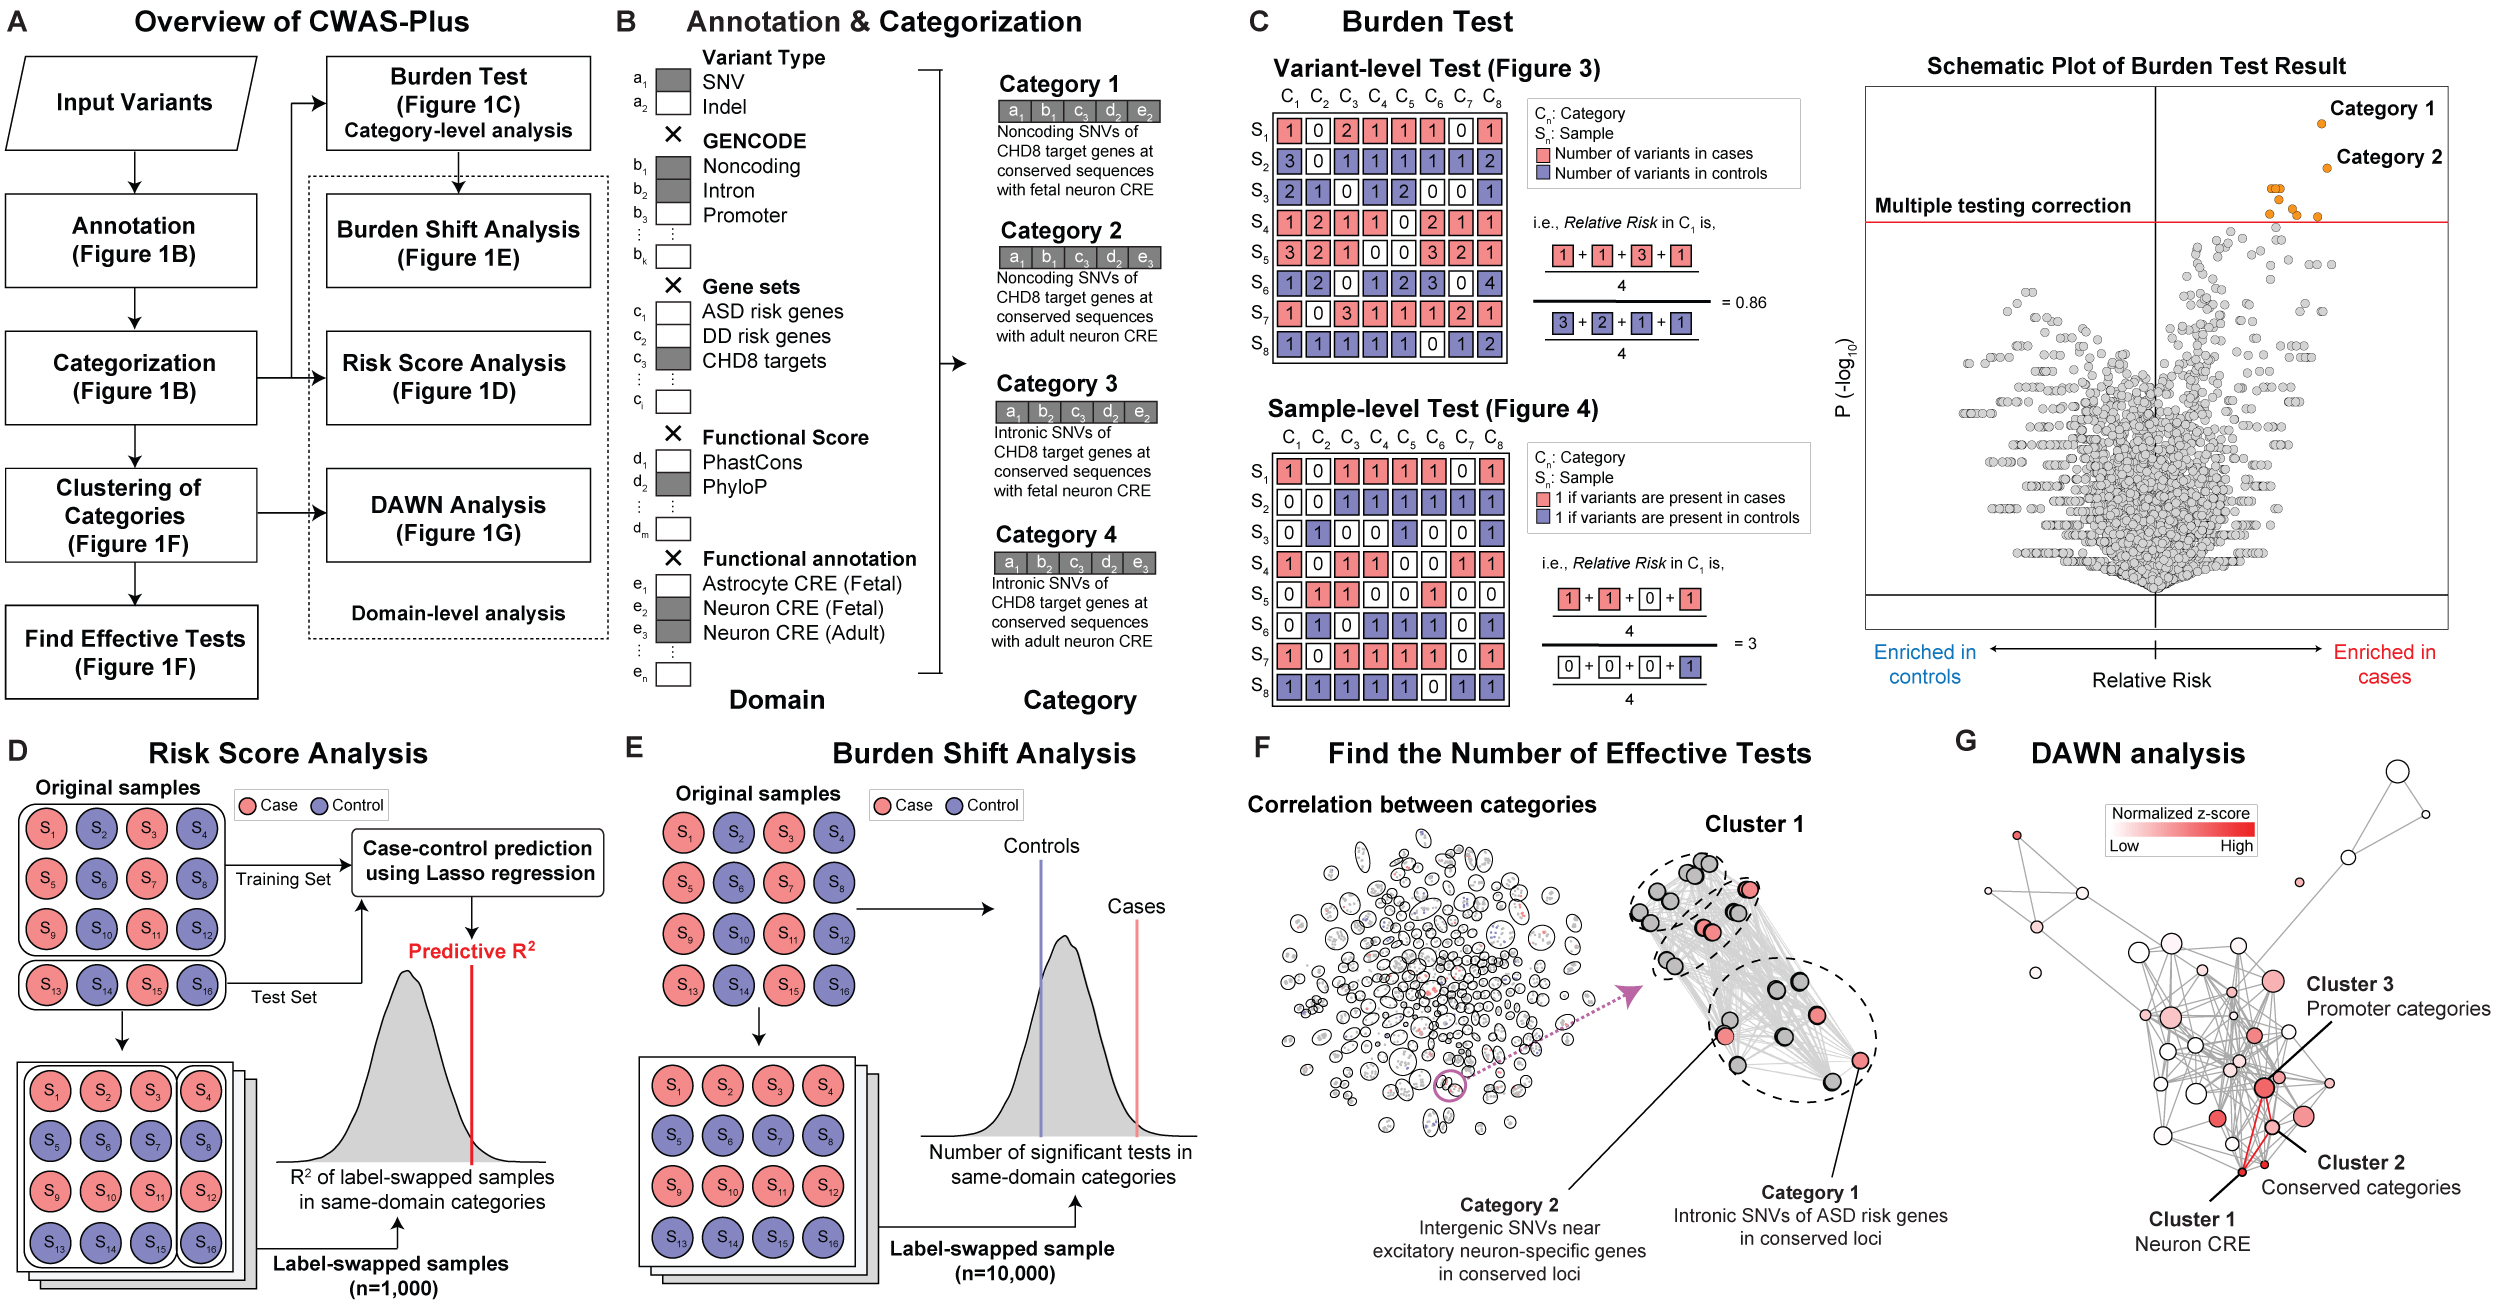
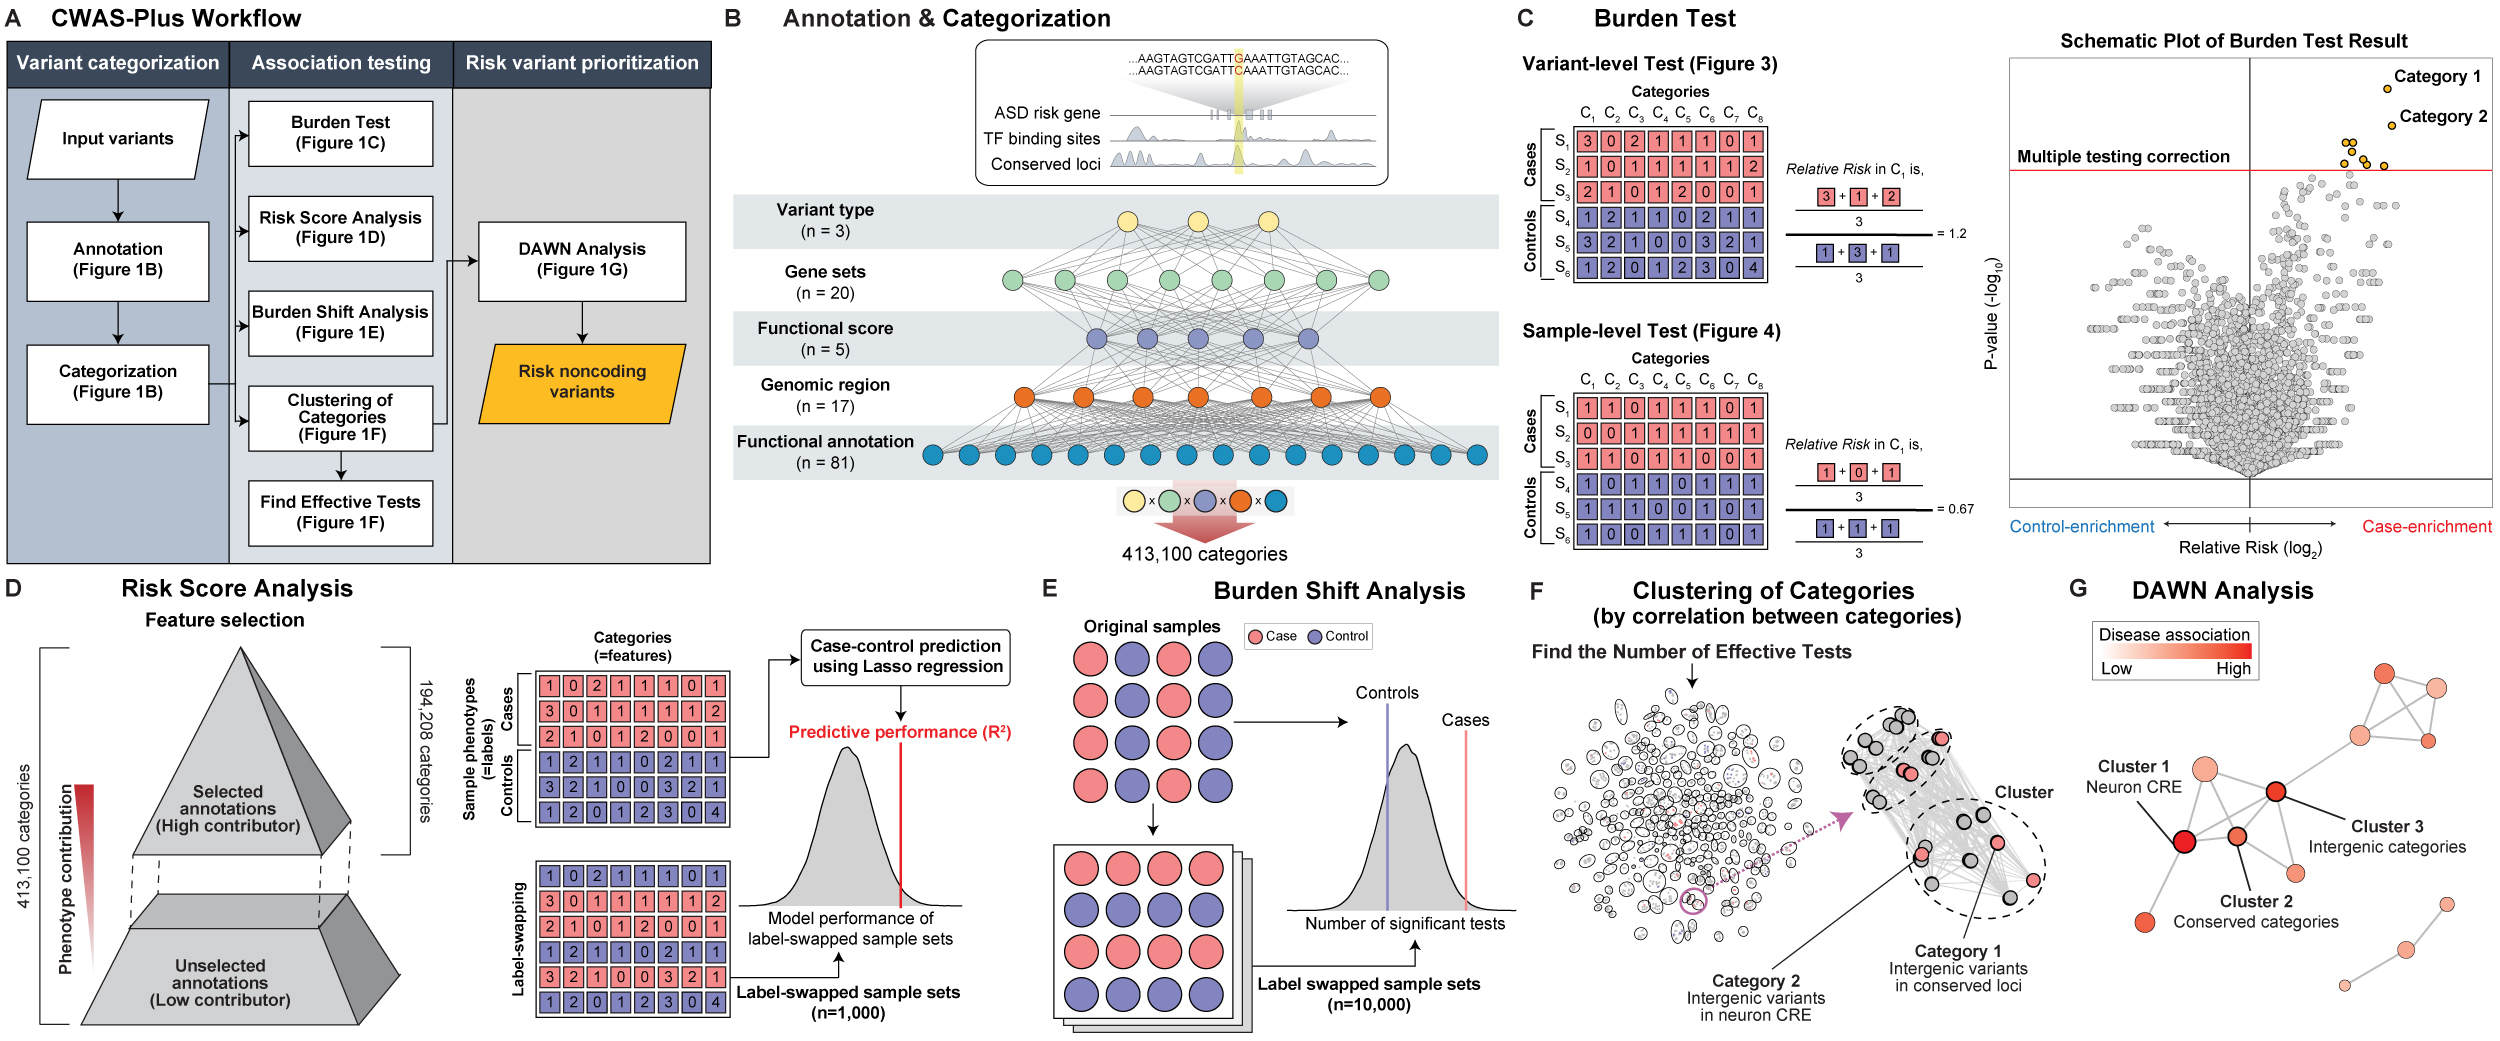
Update documents

diff --git a/docs/faq/faq.rst b/docs/faq/faq.rst
@@ -4,5 +4,176 @@
 FAQ
 **********************
 
-Q. 
-###########################
+
+Easy installation of VEP
+######################################################
+
+For easy installation of VEP, we provide the following commands for installation through conda.
+
+For LOFTEE plugin, the installation location for cpanm, perl, and VEP should be the same. For example, for conda, all tools should be located under the same conda environment for VEP to locate other tools.
+
+To install VEP version 110, users can use the following command. If users want to install other versions, users can modify the number `110` to their desired specific version.
+
+(The provided commands are referenced from `VEP document <https://asia.ensembl.org/info/docs/tools/vep/script/vep_download.html>`.)
+
+.. code-block:: solidity
+  
+  conda install -c bioconda perl-bioperl
+  conda install perl-App-cpanminus
+  conda install -c bioconda ensembl-vep=110
+  cpanm --force Bio::Perl
+
+  wget https://github.com/ucscGenomeBrowser/kent/archive/v335_base.tar.gz
+  tar xzf v335_base.tar.gz
+
+  export KENT_SRC=$PWD/kent-335_base/src
+  export MACHTYPE=$(uname -m)
+  export CFLAGS="-fPIC"
+  export MYSQLINC=`mysql_config --include | sed -e 's/^-I//g'`
+  export MYSQLLIBS=`mysql_config --libs`
+
+  cd $KENT_SRC/lib
+  echo 'CFLAGS="-fPIC"' > ../inc/localEnvironment.mk
+
+  make clean && make
+  cd ../jkOwnLib
+  make clean && make
+
+  ln -s $KENT_SRC/lib/x86_64/* $KENT_SRC/lib/
+
+  cpanm Bio::DB::BigFile
+  cpanm DBD::SQLite
+
+When the following message appears when using VEP,
+
+.. code-block:: solidity
+  
+  Compress::Raw::Zlib version 2.201 required--this is only version 2.105
+
+Try running the following command.
+
+.. code-block:: solidity
+  
+  conda update -c conda-forge perl-compress-raw-zlib
+
+Users can check whether VEP is installed through `vep --help`. If VEP is installed, the message will appear as following.
+
+.. code-block:: solidity
+
+  #----------------------------------#
+  # ENSEMBL VARIANT EFFECT PREDICTOR #
+  #----------------------------------#
+
+  Versions:
+    ensembl              : 110.584a8f3
+    ensembl-funcgen      : 110.24e6da6
+    ensembl-io           : 110.b1a0d57
+    ensembl-variation    : 110.d34d25e
+    ensembl-vep          : 110.1
+
+  Help: dev@ensembl.org , helpdesk@ensembl.org
+  Twitter: @ensembl
+
+  http://www.ensembl.org/info/docs/tools/vep/script/index.html
+
+  Usage:
+  ./vep [--cache|--offline|--database] [arguments]
+
+  Basic options
+  =============
+
+  --help                 Display this message and quit
+
+  -i | --input_file      Input file
+  -o | --output_file     Output file
+  --force_overwrite      Force overwriting of output file
+  --species [species]    Species to use [default: "human"]
+
+  --everything           Shortcut switch to turn on commonly used options. See web
+                        documentation for details [default: off]
+  --fork [num_forks]     Use forking to improve script runtime
+
+  For full option documentation see:
+  http://www.ensembl.org/info/docs/tools/vep/script/vep_options.html
+
+
+How to configure ANNOTATION_KEY_CONFIG yaml file
+######################################################
+
+The **ANNOTATION_KEY_CONFIG** yaml file contains *functional_score* and *functional_annotation*. Each file is in bed format and should be written with their short name that represents them. This name will be further used in other analyses.
+
+When setting the short name, avoid using underscores ('_'). Underscores are used to distinguish different domains within a single category. For example, a category 'A_B_C_D_E' will be recognized as five domains, but if the name of the category is 'A_B_C_D_E_F', it will cause error while association testing, as the category is divided into six domains.
+
+An example for **ANNOTATION_KEY_CONFIG** yaml file looks like below.
+
+.. code-block:: solidity
+
+  functional_score:
+    bed1.bed.gz: annot1
+    bed2.bed.gz: annot2
+  functional_annotation:
+    bed3.bed.gz: annot_3 # Do not use underscores like this. Users can use 'annot3' instead.
+    bed4.bed.gz: annot4
+
+The files should be located inside **ANNOTATION_DATA_DIR**. For preparation step, these files should be indexed using tabix.
+
+As an example, users can sort and index their bed file like below.
+
+.. code-block:: solidity
+  
+  cat bed1.bed | sort -k1,1V -k2,2n -k3,3n -t$'\t' | bgzip -c > sorted.bed1.bed.gz
+  tabix -p bed sorted.bed1.bed.gz
+
+
+
+
+How to add or remove a gene set
+######################################################
+
+Modify the txt file used for gene set (**GENE_MATRIX**).
+
+The gene set contains gene ID, gene name and columns that represents each set of genes. To add or remove gene sets, users can add or remove columns.
+
++--------------------+-----------+---------------+---------+--------------+
+| gene_id            | gene_name | ProteinCoding | lincRNA | ASDTADAFDR03 |
++====================+===========+===============+=========+==============+
+| ENSG00000000003.15 | TSPAN6    |1              | 0       | 0            |
++--------------------+-----------+---------------+---------+--------------+
+| ENSG00000000005.6  | TNMD      |1              | 0       | 0            |
++--------------------+-----------+---------------+---------+--------------+
+| ENSG00000000419.14 | DPM1      |1              | 0       | 0            |
++--------------------+-----------+---------------+---------+--------------+
+
+Then, configure again.
+
+.. code-block:: solidity
+
+  cwas configuration -f
+
+If users already have the annotated VCF (`*annotated.vcf.gz`) and gene set is the only thing they changed, then they can start from categorization step. Gene sets are first used in the categorization step.
+
+
+How to add or remove a functional annotation or score
+######################################################
+
+Modify the **ANNOTATION_KEY_CONFIG** yaml file. Add a new line or remove previous lines from the file.
+
+Then, configure again.
+
+.. code-block:: solidity
+
+  cwas configuration -f
+
+
+The annotation of CWAS-Plus contains two steps: (1) VEP annotation, (2) BED custom annotation. If the output of each step already exists, then the step is skipped.
+
+If users already have the VEP annotated file (`*.vep.vcf.gz`), they can start from annotation step.
+
+CWAS-Plus skips VEP annotation if the VEP annotated file already exists.
+
+.. code-block:: solidity
+
+  cwas annotation -v INPUT.vcf -o_dir OUTPUT_DIR -p 8
+
+However, before annotation, please **remove the annotated VCF** (`*annotated.vcf.gz`). If the annotated VCF exists, CWAS-Plus will also skip BED custom annotation step.
+

diff --git a/docs/index.rst b/docs/index.rst
@@ -13,7 +13,7 @@ Here are the reference papers:
 
 * `An analytical framework for whole genome sequence association studies and its implications for autism spectrum disorder <https://www.ncbi.nlm.nih.gov/pmc/articles/PMC5961723/>`_ (Werling et al., 2018)
 * `Genome-wide de novo risk score implicates promoter variation in autism spectrum disorder <https://www.ncbi.nlm.nih.gov/pmc/articles/PMC6432922/>`_ (An et al., 2018)
-* CWAS-Plus: Estimating genome-wide evaluation of noncoding variation from whole genome sequencing data. (Kim et al., in preperation)
+* `CWAS-Plus: Estimating category-wide association of rare noncoding variation from whole-genome sequencing data with cell-type-specific functional data <https://www.medrxiv.org/content/10.1101/2024.04.15.24305828v1>` (Kim et al., in press)
 
 
 CWAS-Plus workflow
@@ -24,7 +24,7 @@ CWAS-Plus workflow
    :width: 90%
    :align: center
 
-   **A.** Workflow\: Variants extracted from whole-genome sequencing data of samples (sample variant) serve as inputs. The three steps depicted in the black box correspond to the final outputs obtained from CWAS-Plus. **B-G.** Graphic descriptions of each process in CWAS-Plus\: Red (case) and blue (control) represent the phenotype. **F.** Representative network pointed by the purple arrow provides an enlarged view of a subset of the network. The color indicates the direction of the burden in each category (red, case burden; blue, control burden). **G.** The color of the clusters reflects the scale of the normalized z-score, which represents the degree of disease association of the cluster. Darker red indicates a higher association. Circle size represents the number of categories within the cluster.
+   **A.** Workflow\: Variants extracted from whole-genome sequencing data of samples (sample variant) serve as inputs. **B-G.** Graphic descriptions of each process in CWAS-Plus\: Red (case) and blue (control) represent the phenotype. **F.** Representative network pointed by the purple arrow provides an enlarged view of a subset of the network. Node color indicates the direction of the burden in each category (red, case burden; blue, control burden). **G.** Node color reflects the scale of the normalized z-score, which represents the degree of disease association of the cluster. Darker red indicates a higher association. Node size represents the number of categories within the cluster.
 
 
 .. toctree::
@@ -77,7 +77,6 @@ CWAS-Plus workflow
    :caption: FAQ
 
    faq/faq.rst
-   faq/tips.rst
 
 Misc.
 ######

diff --git a/README.md b/README.md
@@ -8,7 +8,7 @@ CWAS was used in the following papers.
 
 - [An analytical framework for whole genome sequence association studies and its implications for autism spectrum disorder](https://www.ncbi.nlm.nih.gov/pmc/articles/PMC5961723/) (Werling _et al._, 2018)
 - [Genome-wide de novo risk score implicates promoter variation in autism spectrum disorder](https://www.ncbi.nlm.nih.gov/pmc/articles/PMC6432922/) (An _et al._, 2018)
-- CWAS-Plus: Estimating genome-wide evaluation of noncoding variation from whole genome sequencing data. (Kim et al., in preperation)
+- [CWAS-Plus: Estimating category-wide association of rare noncoding variation from whole-genome sequencing data with cell-type-specific functional data](https://www.medrxiv.org/content/10.1101/2024.04.15.24305828v1) (Kim et al., in press)
 
 Here is _the original CWAS repository: [sanderslab/cwas](https://github.com/sanderslab/cwas)_
 
